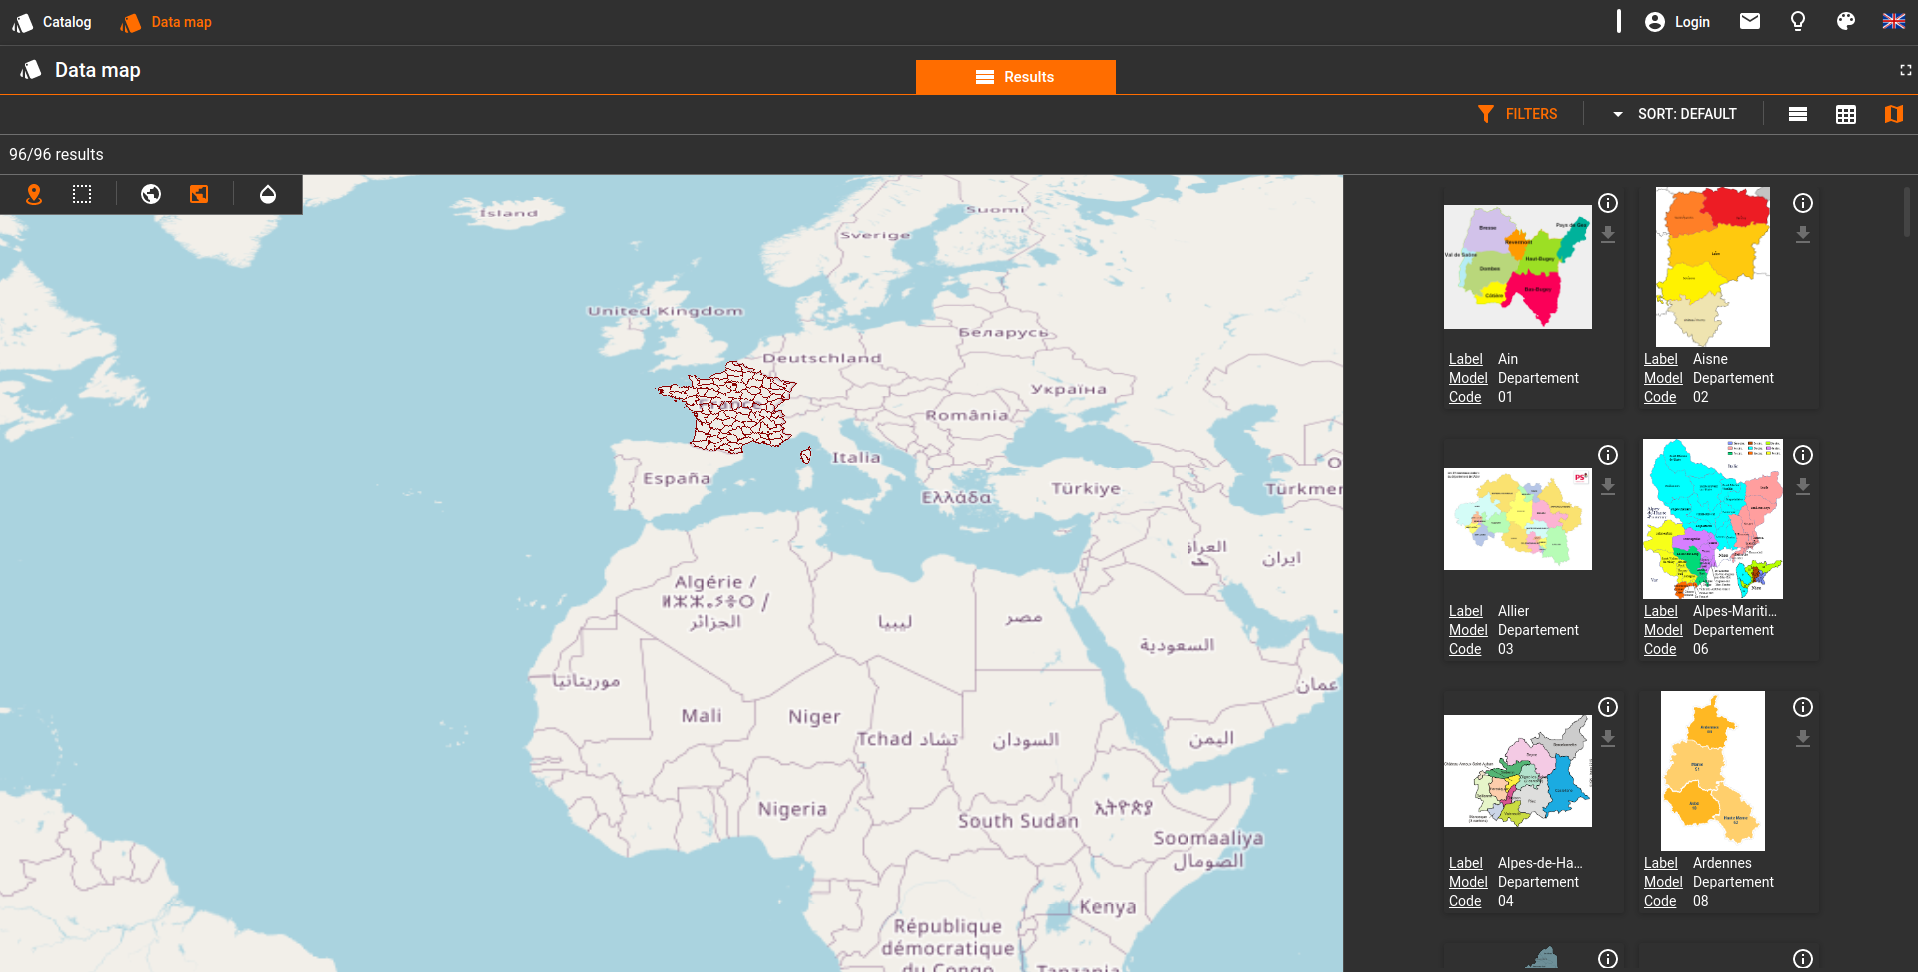
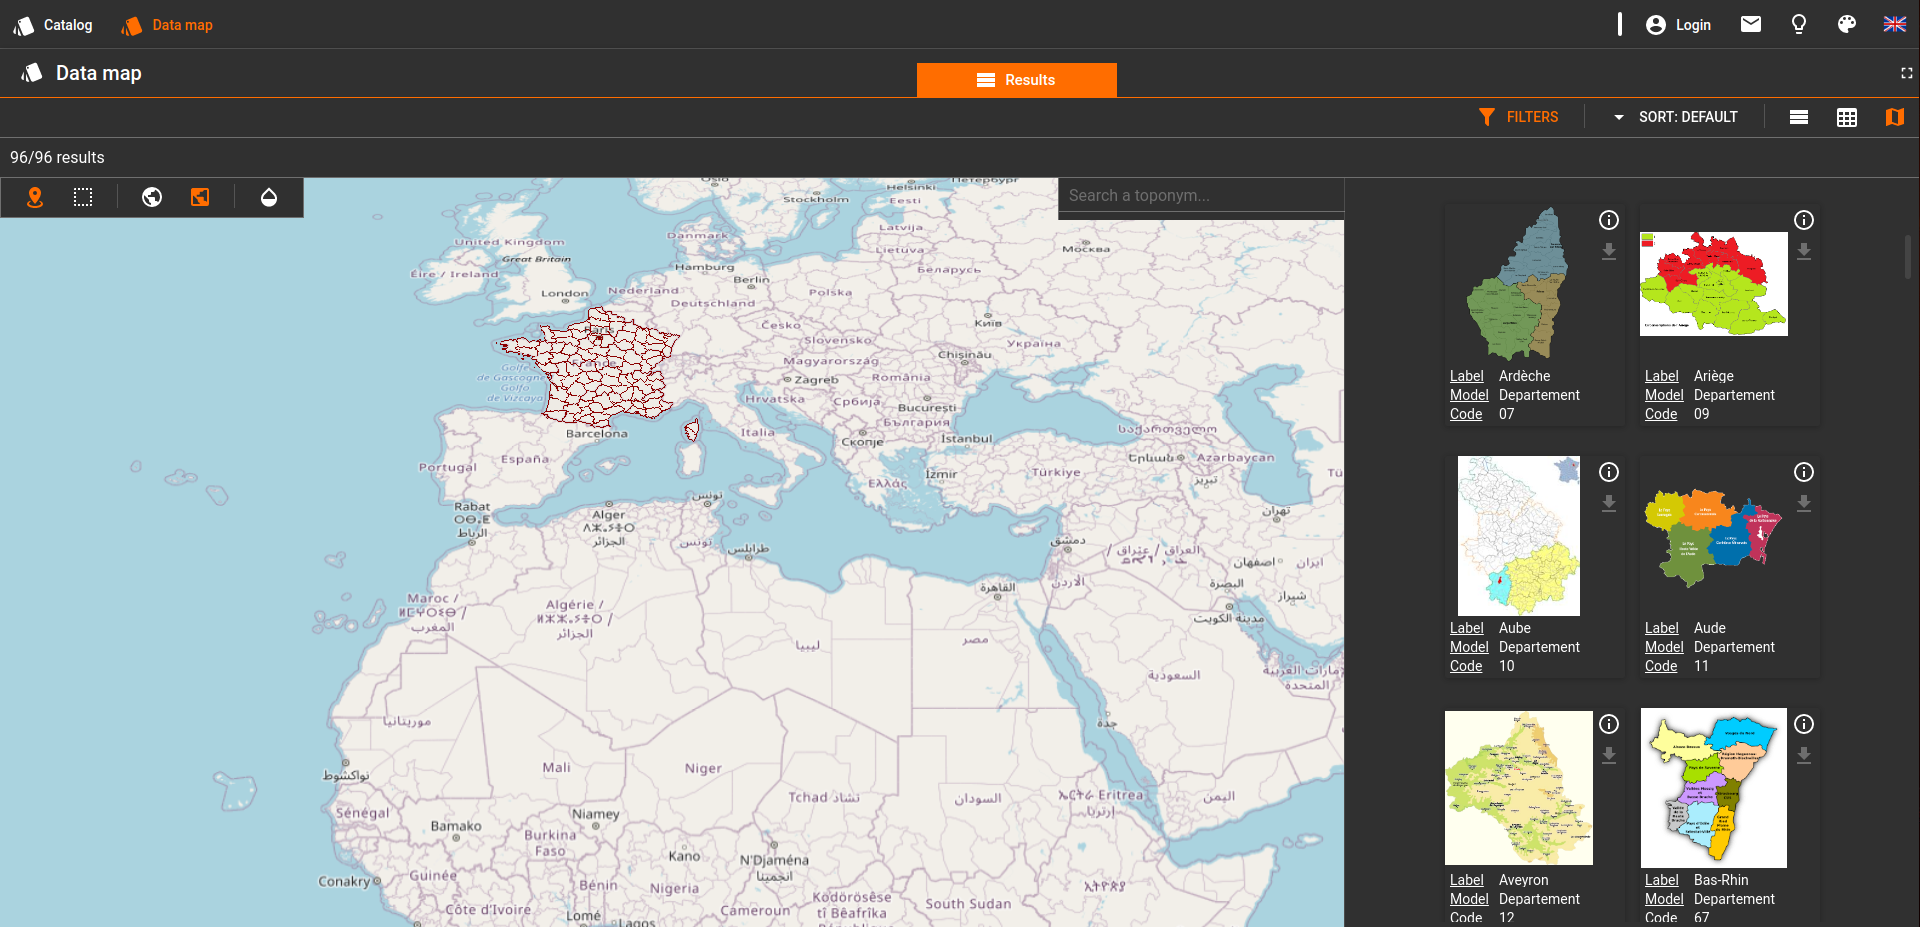
add toponym on map view and on catalog configuration

diff --git a/docs/user-documentation/6-catalog-consultation/catalog-configuration.md b/docs/user-documentation/6-catalog-consultation/catalog-configuration.md
@@ -132,6 +132,7 @@ En revanche, vous pouvez créer un autre catalogue selon les missions sur lesque
   - ***temporal-criteria*** base la recherche sur une date
   - ***two-numerical-criteria*** base la recherche sur deux nombres
   - ***two-temporal-criteria*** base la recherche sur deux dates
+  - ***toponym-criteria*** recherche des données contenus dans une zone géographique
 - Donnez un nom au critère en anglais et en français.
 - Selon le plugin sélectionné, l'indication ***No configuration*** pourra s'afficher en rouge. Si tel est le cas, cliquez sur ce bouton et choisissez l'attribut du modèle sur lequel la recherche se fera puis appuyez sur ***Confirm***
 - Ajoutez un critère supplémentaire au besoin en cliquant sur le bouton ***Insert*** de la ligne et ***Insert criterion before*** ou ***Insert criterion after***. Si vous souhaitez ajouter un groupe cliquez également sur ***Insert*** puis ***Insert group before*** ou ***Insert criterion after***.

diff --git a/docs/user-documentation/6-catalog-consultation/catalog-manipulation.md b/docs/user-documentation/6-catalog-consultation/catalog-manipulation.md
@@ -72,3 +72,4 @@ Vous observez :
   - <img src="/images/user-documentation/regards-icons/user/globe.png" alt="globe" height="25"/> affiche la vue 3D
   - <img src="/images/user-documentation/regards-icons/user/planisphere.png" alt="planisphere" height="25"/> affiche la vue 2D
   - <img src="/images/user-documentation/regards-icons/user/drop.png" alt="drop" height="25"/> en cliquant sur ce bouton un curseur apparaîtra pour régler la transparence des layers de superposition (seulement dans le cas où vous en avez configuré)
+- une barre de recherche de toponyme qui permet de filter les résultats contenus dans une zone géographique
